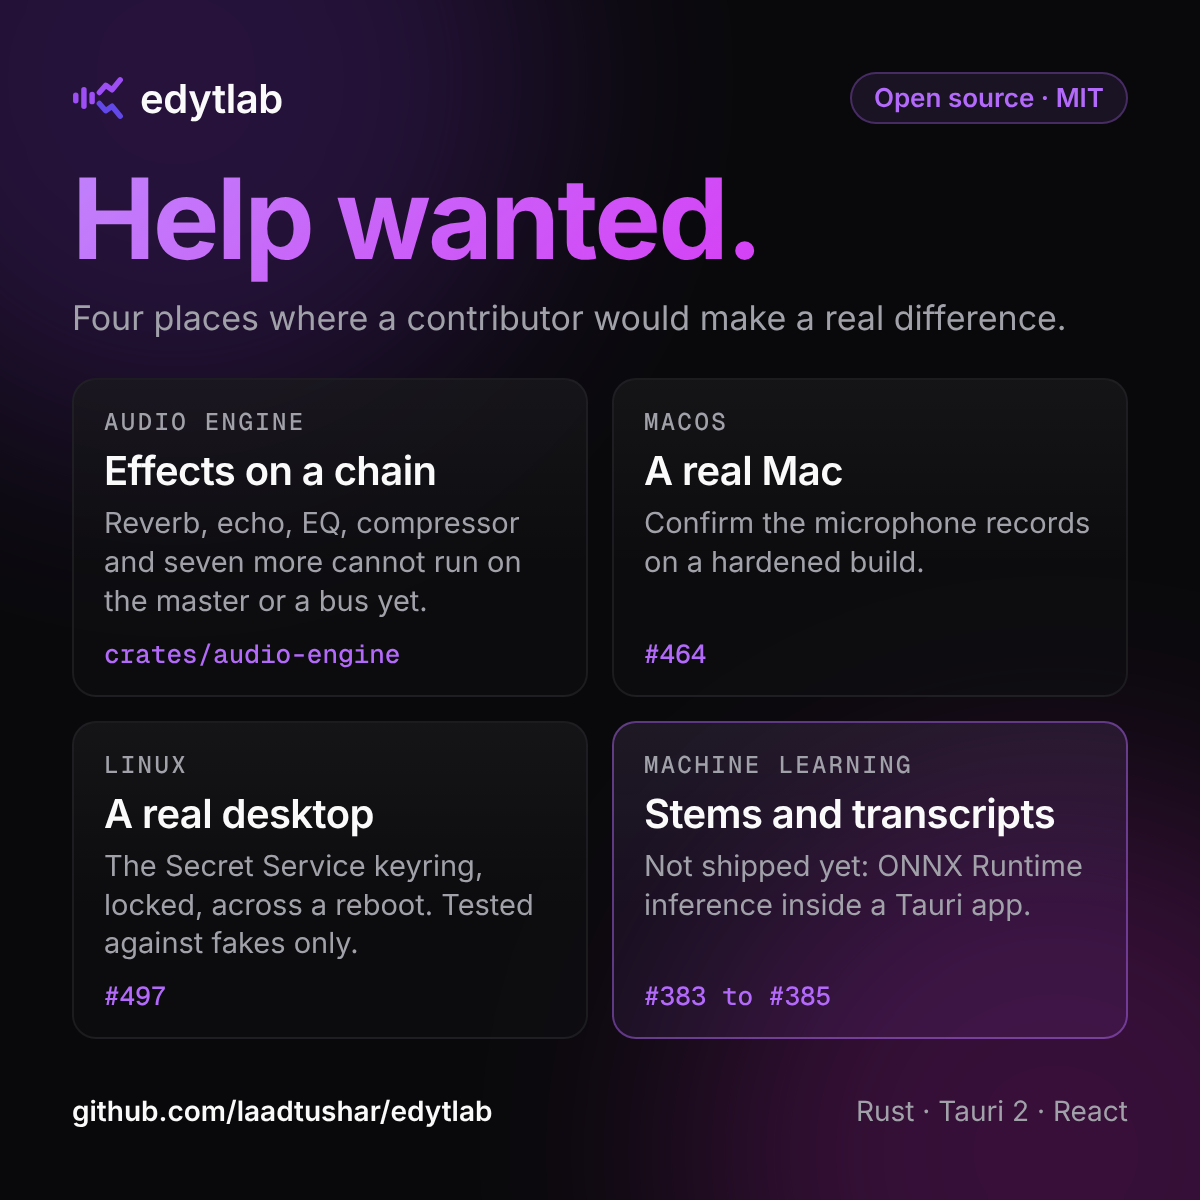
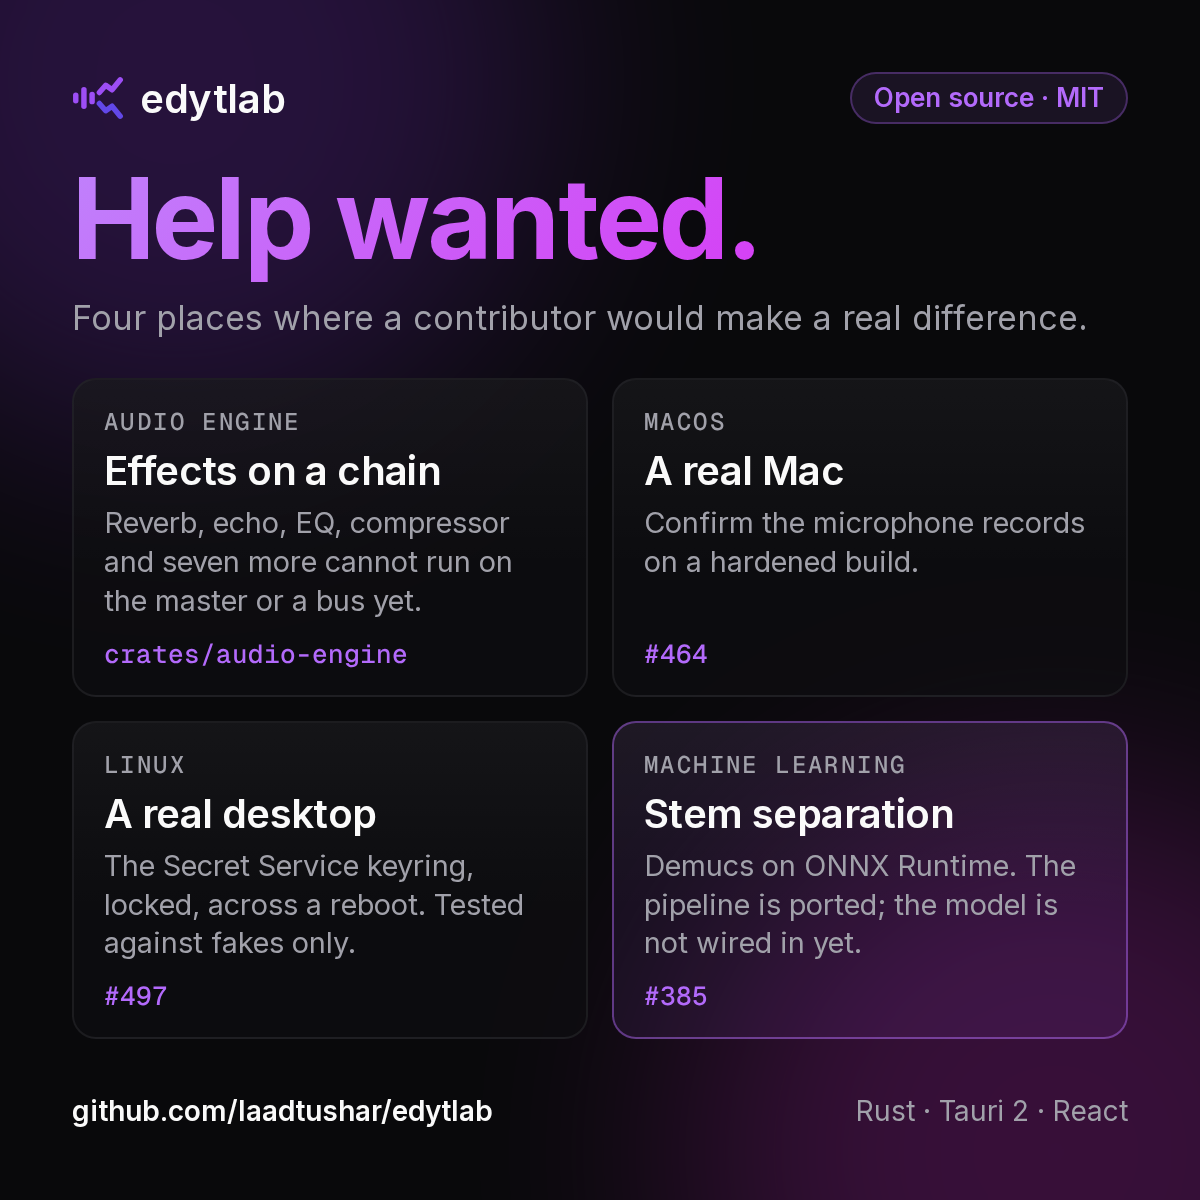
docs(marketing): post 5's ML card names stem separation alone, and the LinkedIn notes describe the evergreen renders
Transcription has worked since v0.8.0 (#383 and #384 are closed), so the
"Stems and transcripts: not shipped" card on the post 5 square now names
stem separation (#385) alone; the replaced render is archived. The LinkedIn
README no longer says the squares carry a version or a tool count: #843
re-rendered them without either.

Claude-Session: https://claude.ai/code/session_01HKmUvkmqBQV4f8xtN1QcY3

diff --git a/marketing/social-kit/linkedin/templates/post-5-help-wanted.html b/marketing/social-kit/linkedin/templates/post-5-help-wanted.html
@@ -50,9 +50,9 @@
       </div>
       <div class="card item lit" data-safe="item">
         <p class="eyebrow">Machine learning</p>
-        <h3>Stems and transcripts</h3>
-        <p>Not shipped yet: ONNX Runtime inference inside a Tauri app.</p>
-        <span class="ref">#383 to #385</span>
+        <h3>Stem separation</h3>
+        <p>Demucs on ONNX Runtime. The pipeline is ported; the model is not wired in yet.</p>
+        <span class="ref">#385</span>
       </div>
     </div>
 

diff --git a/marketing/social-kit/linkedin/README.md b/marketing/social-kit/linkedin/README.md
@@ -34,7 +34,9 @@ other four files render to the same picture; a render on Linux sets the text a
 few pixels differently from the Windows render that made posts 2 and 5, so those
 two were left as committed.
 
-**Stale after v0.9.3 (2026-10-27), not re-rendered here (rendered files are not edited in a copy sweep):** `out/post-1-launch.png` and the last page of `out/post-3-carousel.pdf` say "v0.9.2"; post 1's stat, post 3's square and the carousel show the tool count they were rendered with (96, from `docs/tools-reference.md` on 2026-10-26; it is 99 now); `out/post-5-help-wanted.png` has the "#383 to #385" card described in the table below. Run `node render.mjs` (it reads the version from `tauri.conf.json` and the count from `docs/tools-reference.md`) and fix the post 5 card before posting those images.
+Posts 1, 2, 3 (the square), 5 and the carousel were re-rendered on 2026-10-26 to be evergreen (#843): no canvas names a version, a tool count or a provider count any more ("Open source" pill, "Any AI provider", "Dozens of tools"), so a release or a new tool no longer makes them stale. The files they replace are in [`../../archive/linkedin/2026-10-26-evergreen/`](../../archive/README.md).
+
+Post 5 was re-rendered on 2026-10-27 (v0.9.3): its machine-learning card said "Stems and transcripts: Not shipped yet", #383 to #385, but transcription works since v0.8.0 (#383 and #384 are closed), so the card now names stem separation alone (#385). The file it replaces is in [`../../archive/linkedin/2026-10-27-v0.9.3/`](../../archive/README.md).
 
 Post 1 and the carousel were re-rendered once more on 2026-10-26 for v0.9.2, which is being
 released that day (the version is again the only change: the pill and the carousel's last page
@@ -51,12 +53,12 @@ Settings and no message box, so they were not replaced. The files post 4 replace
 
 | File | Size | Goes with | What it shows |
 |---|---|---|---|
-| `out/post-1-launch.png` | 1200x1200, 576 KB | Post 1, launch | "An audio editor you talk to": a "v0.9.2 · open source" pill, the app's chat panel with a scripted example conversation, and the site's three numbers (0 bytes of audio uploaded, 6 API providers, and the tool count read at render time: 96 when last rendered, 99 now) |
+| `out/post-1-launch.png` | 1200x1200, 576 KB | Post 1, launch | "An audio editor you talk to": an "Open source" pill, the app's chat panel with a scripted example conversation, and three stats with no number that a release changes (0 bytes of audio uploaded, any AI provider, dozens of tools) |
 | `out/post-2-before-after.png` | 1200x1200, 396 KB | Post 2, DJ workflow | The seven chores of one blend, beside the same scripted example conversation in the app's chat panel |
-| `out/post-3-model-never-touches-a-sample.png` | 1200x1200, 203 KB | Post 3, build story | The model reads text and answers with tool calls; the tools (the count is read at render time: 96 when last rendered, 99 now) and the audio are on your machine |
+| `out/post-3-model-never-touches-a-sample.png` | 1200x1200, 203 KB | Post 3, build story | The model reads text and answers with tool calls; the deterministic tools and the audio are on your machine |
 | `out/post-4-privacy.png` | 1200x1200, 226 KB | Post 4, privacy | "Does my audio get uploaded? No." What stays, what leaves, and Settings with Ollama selected (the six API providers and the ChatGPT plan button) |
 | `out/post-5-help-wanted.png` | 1200x1200, 249 KB | Post 5, open source | Four places a contributor would make a difference, with issue numbers |
-| `out/post-3-carousel.pdf` | 7 pages of 1080x1350, each an image (2x, JPEG), 2691 KB | Post 3, **instead of the reel** | The build story as a document: cover, the pipeline (the tool count: 96 when last rendered, 99 now), a tool call, the history graph, Plan first, why the time-stretch is in Rust, the source (0 bytes, 6 API providers, the tool count, and "v0.9.2 for macOS, Windows and Linux. The installers are unsigned") |
+| `out/post-3-carousel.pdf` | 7 pages of 1080x1350, each an image (2x, JPEG), 2691 KB | Post 3, **instead of the reel** | The build story as a document: cover, the pipeline ("Deterministic tools"), a tool call, the history graph, Plan first, why the time-stretch is in Rust, the source (0 bytes, any AI provider, dozens of tools, and "For macOS, Windows and Linux") |
 
 A square can also be the cover of the post's reel, if LinkedIn's uploader offers a
 custom thumbnail (not checked from here). The carousel is a native document post:
@@ -175,12 +177,12 @@ Chromium builds (the plan card wraps one word differently), so the files from
 ## What the slides claim, and where each claim comes from
 
 Under the rules in [`../../README.md`](../../README.md). No slide says anything
-about stem separation, transcription or text editing, and none carries a user
+about transcription or text editing; post 5 names stem separation only as not wired in yet (#385), and none carries a user
 count, a quote or a benchmark.
 
 | Claim on a slide | Source |
 |---|---|
-| 99 tools; fade / EQ / time-stretch / loudness / export are among them; they are Rust functions with no model in the audio path. The slides do not call the 99 "deterministic": `separate_stems` only returns an error today, `transcribe` and `diarize` work only on a model the user downloads, and tools an MCP server adds are not part of the 99 | `docs/tools-reference.md` (read at render time), `crates/tools/src/tool/` |
+| "Dozens of tools" and "Deterministic tools"; fade / EQ / time-stretch / loudness / export are among them; they are Rust functions with no model in the audio path. There are 99 (`docs/tools-reference.md`); the slides give no count, so a new tool changes none of them. `separate_stems` only returns an error today and `transcribe` and `diarize` run only on a model the user downloads; tools an MCP server adds are not counted | `docs/tools-reference.md`, `crates/tools/src/tool/` |
 | 6 API providers, one local, plus the ChatGPT plan (v0.9.0, a preview); 0 bytes of audio uploaded | `website/components/landing/stats-strip.tsx`, `website/app/privacy/page.tsx` |
 | The model reads text (tempo, key, loudness), never receives the audio; the DSP runs in Rust on your machine | marketing `README.md` accuracy table; `docs/architecture.md` |
 | Only the chat leaves; Ollama needs no key and runs on your machine | `website/app/privacy/page.tsx`; the dialog's own text in `shots/ollama.png` |
@@ -188,8 +190,8 @@ count, a quote or a benchmark.
 | Every edit is a node; fork, A/B, go back; undo follows the path you took | `crates/tools/src/tool/fork_node.rs`, `compare_nodes.rs`, `apps/desktop/src/lib/headTrail.ts` |
 | Rubber Band was dropped for a pure-Rust phase vocoder; the cost is smearing on dense material at large changes | `crates/audio-time/src/vocoder.rs`, `README.md` |
 | Eleven effects cannot yet run on a master or bus chain | `NOT_YET_STREAMING` in `crates/audio-engine/src/effect_chain.rs` |
-| #464 (macOS microphone), #497 (Linux keyring), #383 to #385 (ML inference) | GitHub, re-checked 2026-10-27: #464, #497 and #385 are open; #383 and #384 are closed (the speech model downloads on a click and transcription runs since v0.8.0). The post 5 square (rendered 2026-10-22) still says "Stems and transcripts: Not shipped yet: ONNX Runtime inference inside a Tauri app, #383 to #385", which is now only true of stem separation (#385): edit `templates/post-5-help-wanted.html` and re-render before using that image |
-| v0.9.2 for macOS, Windows and Linux; MIT; the installers are unsigned | `tauri.conf.json` (`render.mjs` reads the version from it), `LICENSE`, the v0.9.2 release notes. The last carousel page, the only canvas that mentions a download, says so; post 1's pill names the version. Both were re-rendered on 2026-10-26 and say v0.9.2 (stale since v0.9.3; see the note near the top). The version and the tool count are read at render time, so **run `node render.mjs` after the next release or the next new tool, before posting either** |
+| #464 (macOS microphone), #497 (Linux keyring), #385 (stem separation) on post 5 | GitHub, checked 2026-10-27: all three are open. The #385 card says the Demucs pipeline is ported and the model is not wired in, which is true of v0.9.3 (`separate_stems` answers "not implemented in this build"); re-render post 5 when a release ships stem separation |
+| For macOS, Windows and Linux; MIT | `tauri.conf.json` bundle targets, `LICENSE`. No canvas names a version or says whether the installers are signed, so a release changes none of them |
 
 ## Files
 

diff --git a/marketing/archive/README.md b/marketing/archive/README.md
@@ -53,6 +53,7 @@ archive/
 │   └── 2026-10-26-evergreen/         the 42 social images that said 96 tools and the unsigned note, and the three app frames from the replaced demos
 ├── linkedin/
 │   ├── 2026-10-26-evergreen/         the squares and carousel that named a version, a tool count and a provider count
+│   ├── 2026-10-27-v0.9.3/            the post 5 square whose machine-learning card said transcription was not shipped
 │   ├── 2026-10-11-v0.5.0/            the LinkedIn renders that carried "v0.5.0" and "93 tools" (#578), replaced for v0.7.0
 │   │   └── out/                      post-1-launch.png, post-3-model-never-touches-a-sample.png, post-3-carousel.pdf
 │   ├── 2026-10-22-v0.7.0-six-providers/   the renders and the Settings screenshot that said "6 providers" or listed six, replaced for v0.9.0
@@ -104,6 +105,7 @@ Every file except the two drafts is the exact file a PR committed to `main` (the
 | `linkedin/2026-10-25-v0.9.0/` | `out/post-1-launch.png`: the v0.9.0 staleness sweep (#709, 2026-10-25). `out/post-3-carousel.pdf`: #725 (2026-10-25), the image-page build that replaced `linkedin/2026-10-25-v0.9.0-vector-carousel/` | the v0.9.1 staleness sweep (2026-10-25), re-rendered by `social-kit/linkedin/render.mjs` (no `--shots`: the app's UI did not change) | 1200x1200 PNG (post 1, 576 KB) and the seven-page 1080x1350 carousel PDF (2691 KB). Post 1's pill said "v0.9.0 · open source" and the carousel's last page "v0.9.0 for macOS, Windows and Linux"; the new files say v0.9.1 and are the same pictures otherwise, with the same file sizes to the kilobyte. The other four renders were not replaced: posts 3 (the square) and 4 render byte for byte the same, and posts 2 and 5 differ only in a few pixels of text rasterisation (the committed files came from a Windows render), so they stayed as committed |
 | `linkedin/2026-10-26-v0.9.1-chatgpt-logo/` | `out/post-4-privacy.png` and `shots/ollama.png`: the v0.9.0 staleness sweep (#709, 2026-10-25), which had added the ChatGPT plan button | the UI-screenshot sweep of 2026-10-26 (the ChatGPT logo that #749 put on the button), re-rendered by `social-kit/linkedin/render.mjs` after retaking `shots/ollama.png` with `--shots` | 1200x1200 PNG (post 4) and the 1440x795 Settings crop. The crop and the square drew the ChatGPT plan button without OpenAI's logo; the new files draw it with the logo and are the same picture otherwise (the crop differs from the old one only inside that button, checked pixel by pixel). The other four `shots/` files retook as the same picture (anti-aliasing only; none of them shows the message box) and the other four renders and the carousel were not replaced |
 | `linkedin/2026-10-26-v0.9.1/` | `out/post-1-launch.png` and `out/post-3-carousel.pdf`: the v0.9.1 staleness sweep (2026-10-25), which replaced the files in `linkedin/2026-10-25-v0.9.0/` | the v0.9.2 release sweep (2026-10-26), re-rendered by `social-kit/linkedin/render.mjs` with the version at 0.9.2 in the working tree only (the release bump was still in flight) | 1200x1200 PNG (post 1, 576 KB) and the seven-page 1080x1350 carousel PDF (2691 KB). Post 1's pill said "v0.9.1 · open source" and the carousel's last page "v0.9.1 for macOS, Windows and Linux"; the new files say v0.9.2 and are the same pictures otherwise, with the same file sizes to the kilobyte |
+| `linkedin/2026-10-27-v0.9.3/` | `out/post-5-help-wanted.png`: the evergreen re-render (#843, 2026-10-26) | the v0.9.3 copy sweep (2026-10-27), re-rendered by `social-kit/linkedin/render.mjs --only post-5-help-wanted` | 1200x1200 PNG. Its machine-learning card said "Stems and transcripts: Not shipped yet: ONNX Runtime inference inside a Tauri app", #383 to #385; transcription has worked since v0.8.0 and #383 and #384 are closed, so the new card names stem separation alone (#385). The other cards are unchanged |
 | `docs-brand/2026-10-11-violet-six-providers/` | #515 (2026-10-11) | the v0.9.0 staleness sweep (2026-10-25), retaken from the production frontend with the IPC faked (1440x900 window, scaled to 1080x675 as the others are) | 1080x675. The Settings dialog of the "after" set, with six provider buttons and no ONNX Runtime line; the new file has the seventh button (ChatGPT plan) and the Account tab's ONNX Runtime line (answered "bundled" by the fake backend). The other six `after-*` files and the `before-*` set were not touched |
 
 Earlier versions of the documents and scripts in `marketing/` (the READMEs, `script.md`, the Python tools) were edited in place rather than replaced, so they are not copied here; `git log -p -- marketing/` shows every version.
